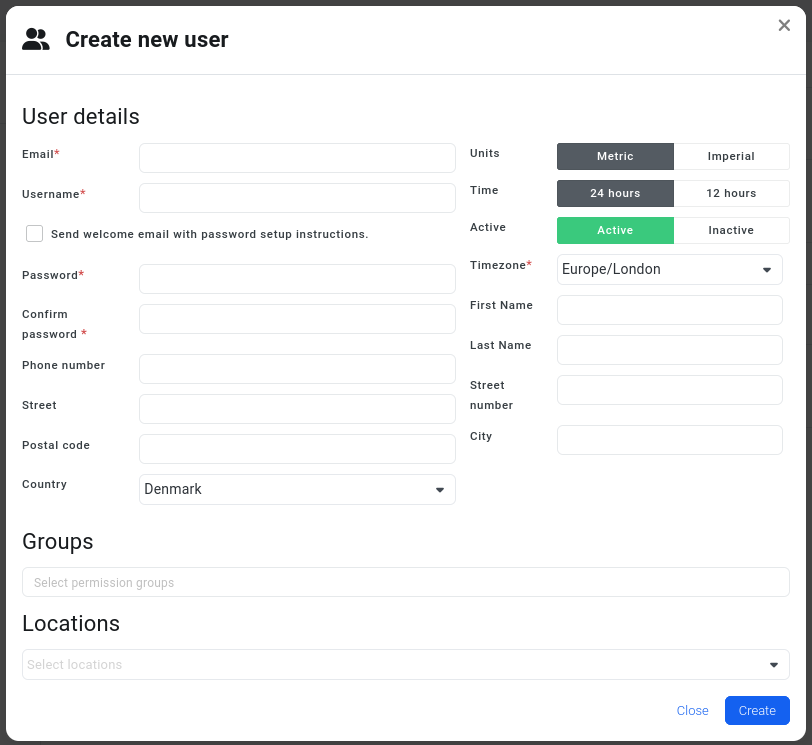
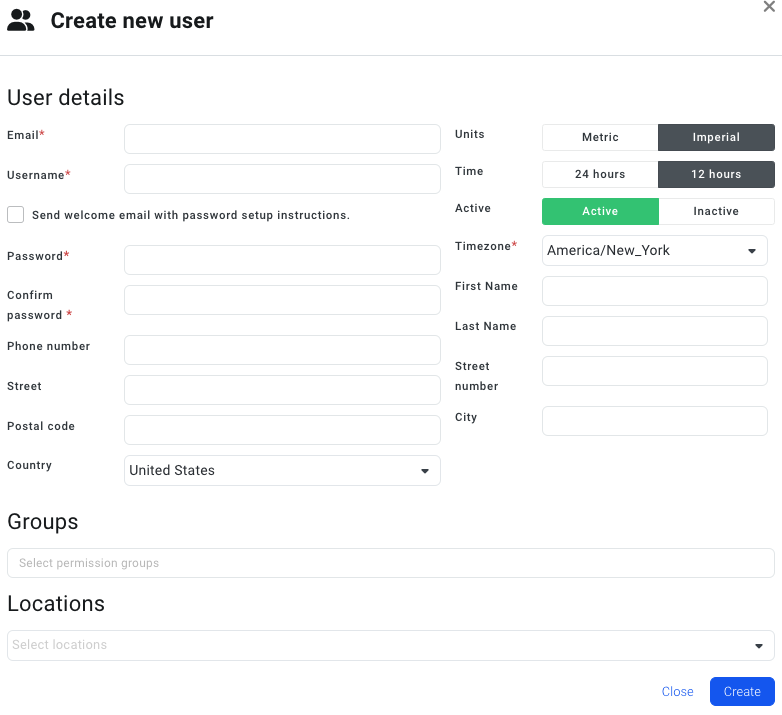
Updated docs for accounts

Changed region(s): [[0.0, 0.0, 1.0, 1.0], [0.5831, 0.1846, 0.6445, 0.3077], [0.1535, 0.6462, 0.2762, 0.6769]]

diff --git a/docs/cloud/accounts.md b/docs/cloud/accounts.md
@@ -3,24 +3,42 @@ id: accounts
 title: Accounts
 ---
 
-In this section you will access and manage your account information. Here, you can edit your
-personal details and configure Cloud settings such as time format or preferred units for viewing data.
+<ins>Creating customers and users</ins> for your fleet management system can be 
+done in the **Accounts** section. Here you can access and manage your account. 
+Upon opening the Accounts tab, you will see the account you are currently under, 
+along with the associated email. 
 
-![Accounts overview](/img/cloud/accounts/account_overview_example.png)
+In the Customers subsection, click on **Create** to add a new nested customer. 
+Start by entering the company name, main work email, and country. For the Cloud 
+settings, choose a time zone, time format, and units you wish to see the data in.
+Click **Create** to save the changes. A small pop-up will confirm the successful 
+account creation. 
 
-Within the Users subsection, you can search for existing users associated with your account,
-as well as create new user profiles.
-By clicking on the Create, you will be directed to the User Details page where you can input all
-necessary information for a new user. In the Groups section, you have the capability to assign
-specific permissions to user accounts. These permissions determine the level of access
-granted to each account.
-
-We offer three distinct permissions options:
-- **Account Administration**: For users who need administrative control.
-- **Fleet Management**: For users who require access to fleet-related data.
-- **Device Management**: For users who manage device-related data.
-
-These permissions help manage data access for your team efficiency.
+You can add users associated by going to the **Users** section and choose 
+**Create**. Add user details, such as their email and username. You can choose 
+to send them a welcome email with a password and setup instructions. You may also
+fill out additional information like their full name, phone number, or address, 
+but this is not required. Required fields are marked with a red mark.
 
 ![Create new user](/img/cloud/accounts/create_new_user.png)
+
+A necessary step is to choose a **Group** here to assign specific permission that
+determines the user’s level of access. Clicking on it will show different 
+permission options and a short description. We recommend choosing these 
+permissions for your users to see vehicle data.
+
+**Fleet Management**: For users who require access to fleet-related data. 
+**Account Administrator**: To manage the currently assigned customer. 
+**Full Device Access**: To see all the vehicles/devices. 
+
+You can choose multiple options. You can also assign users to **Locations** if 
+you have created any (learn more about Locations here). To save the edits, click
+**Create**. A notification table in the right corner will confirm the successful 
+user creation. You can now find the user in the list with their e-mail address, 
+username, assigned customer, location, last login, permissions group, active 
+status either with green check mark or red cross. You can delete the user with 
+the last bin icon.  
+
+Next to Users you can find your **Devices**. All the devices associated to your 
+account can be seen here and you can also register a new device.   
 
